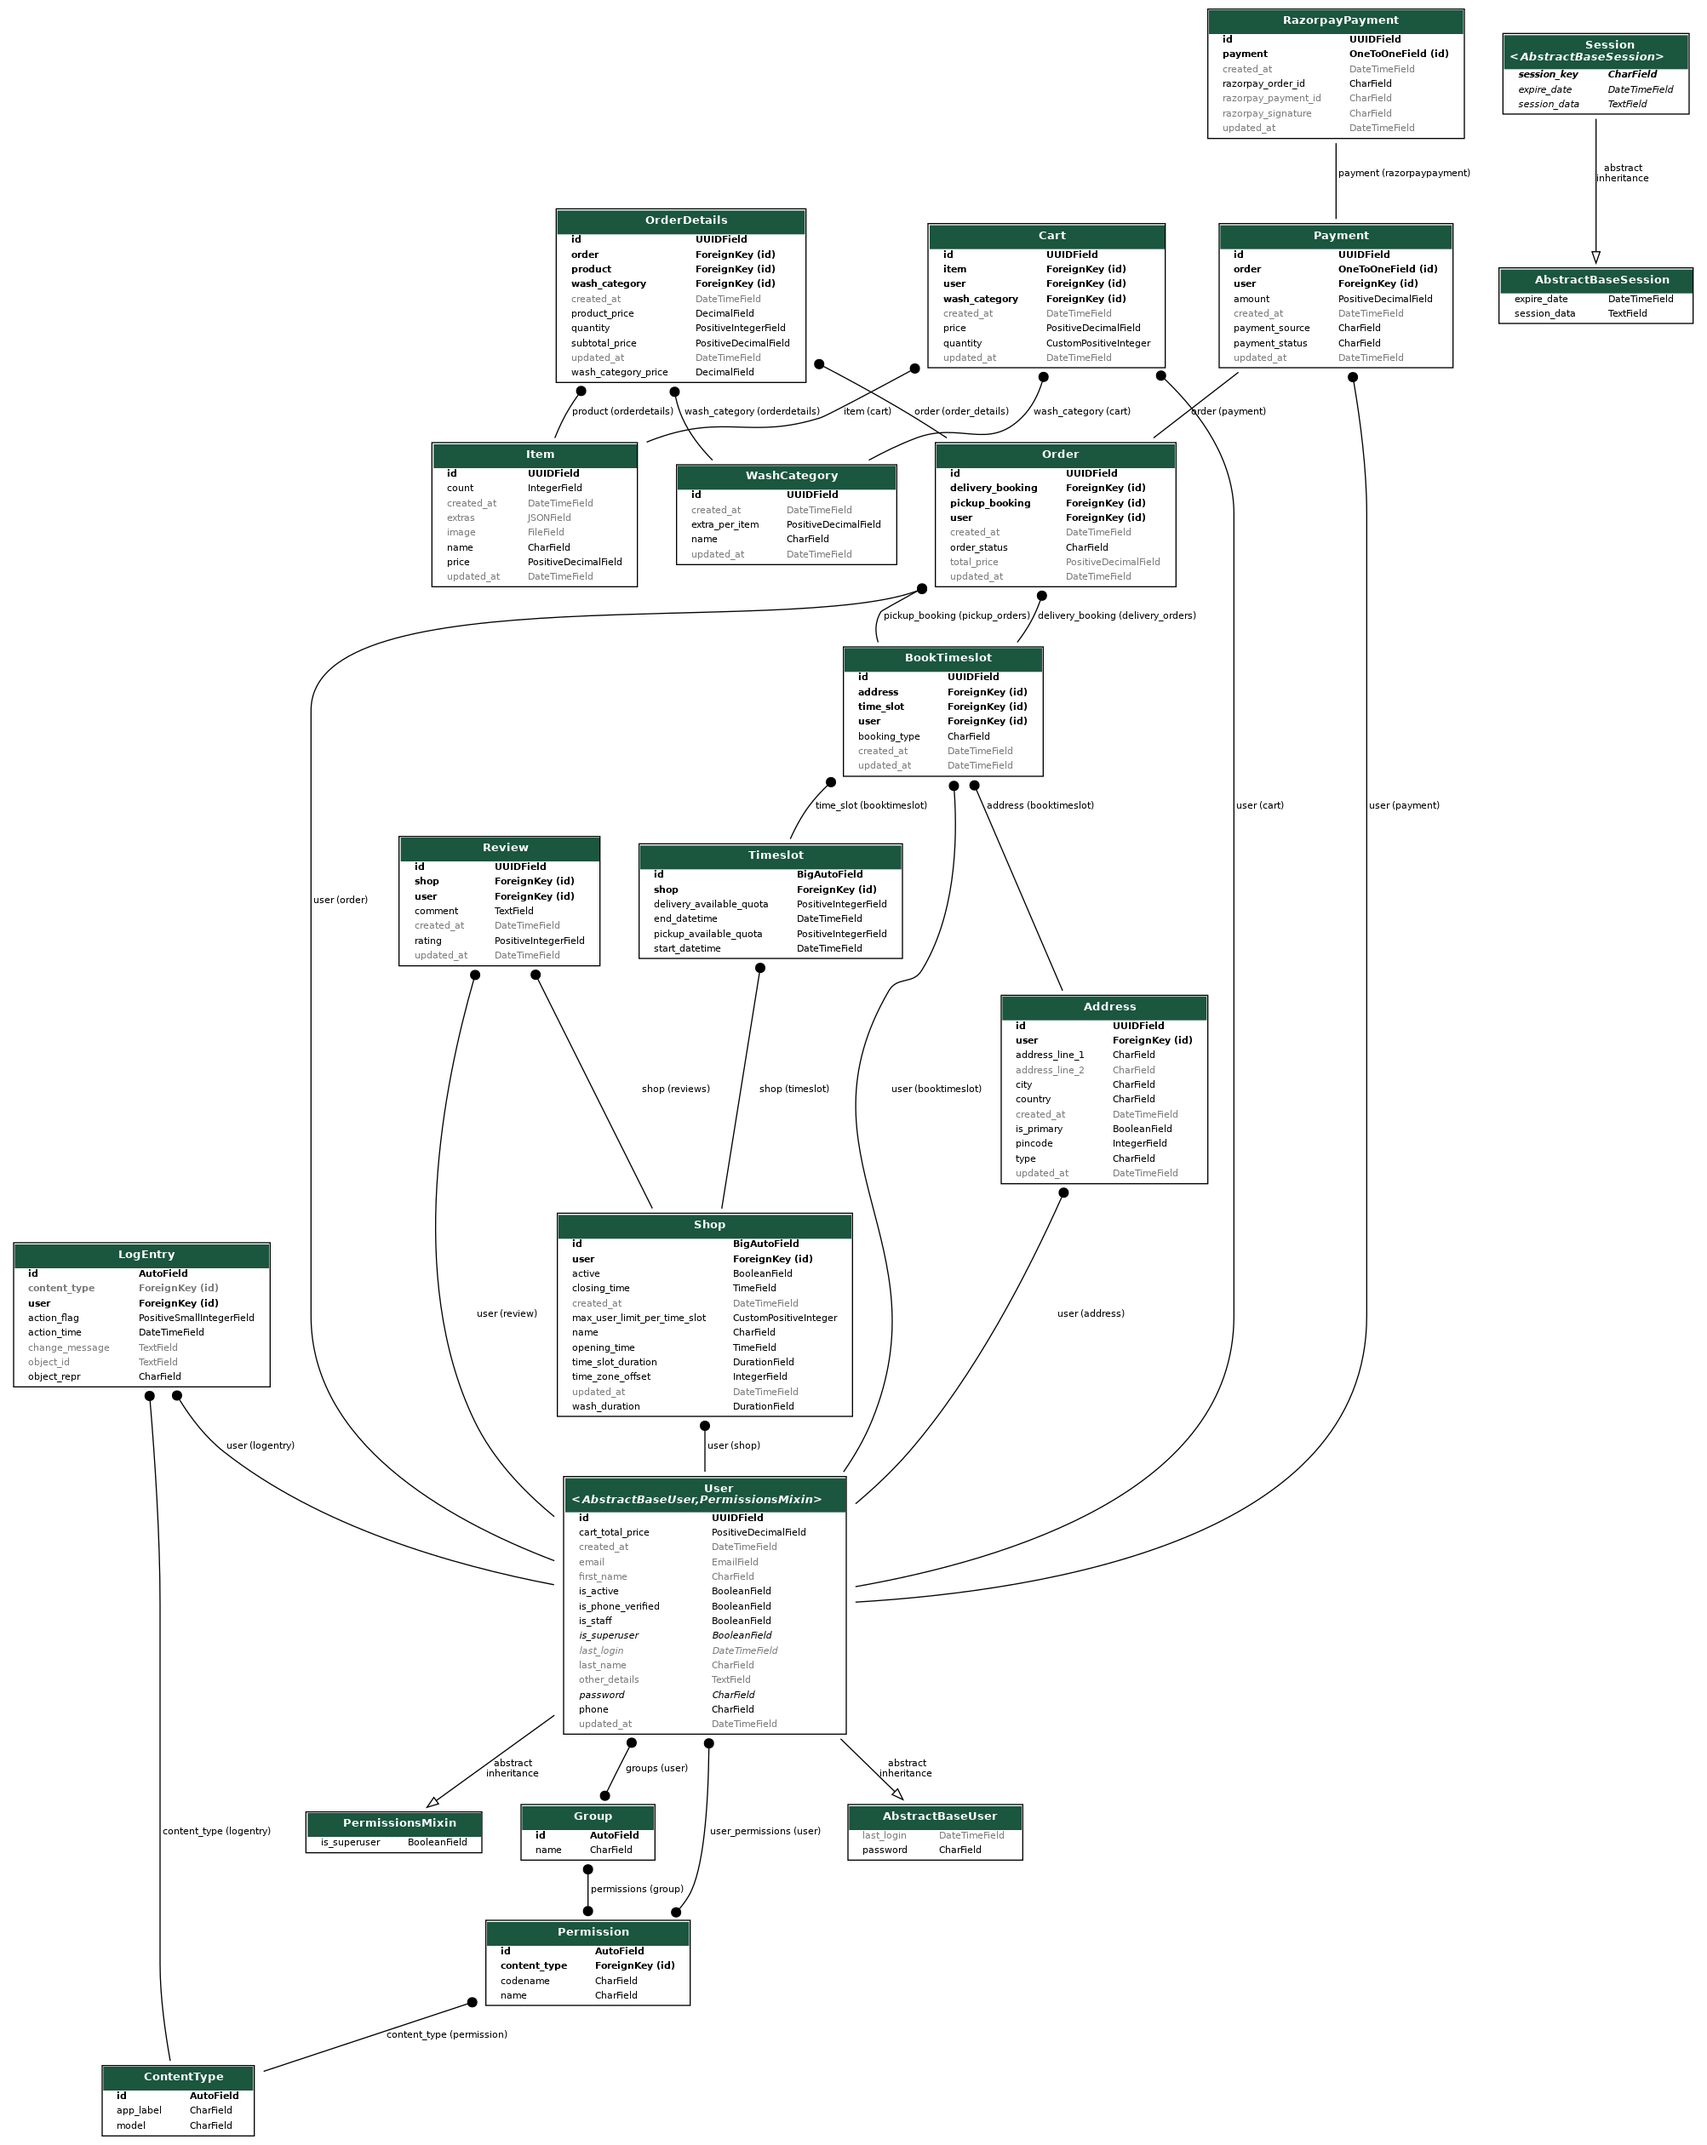
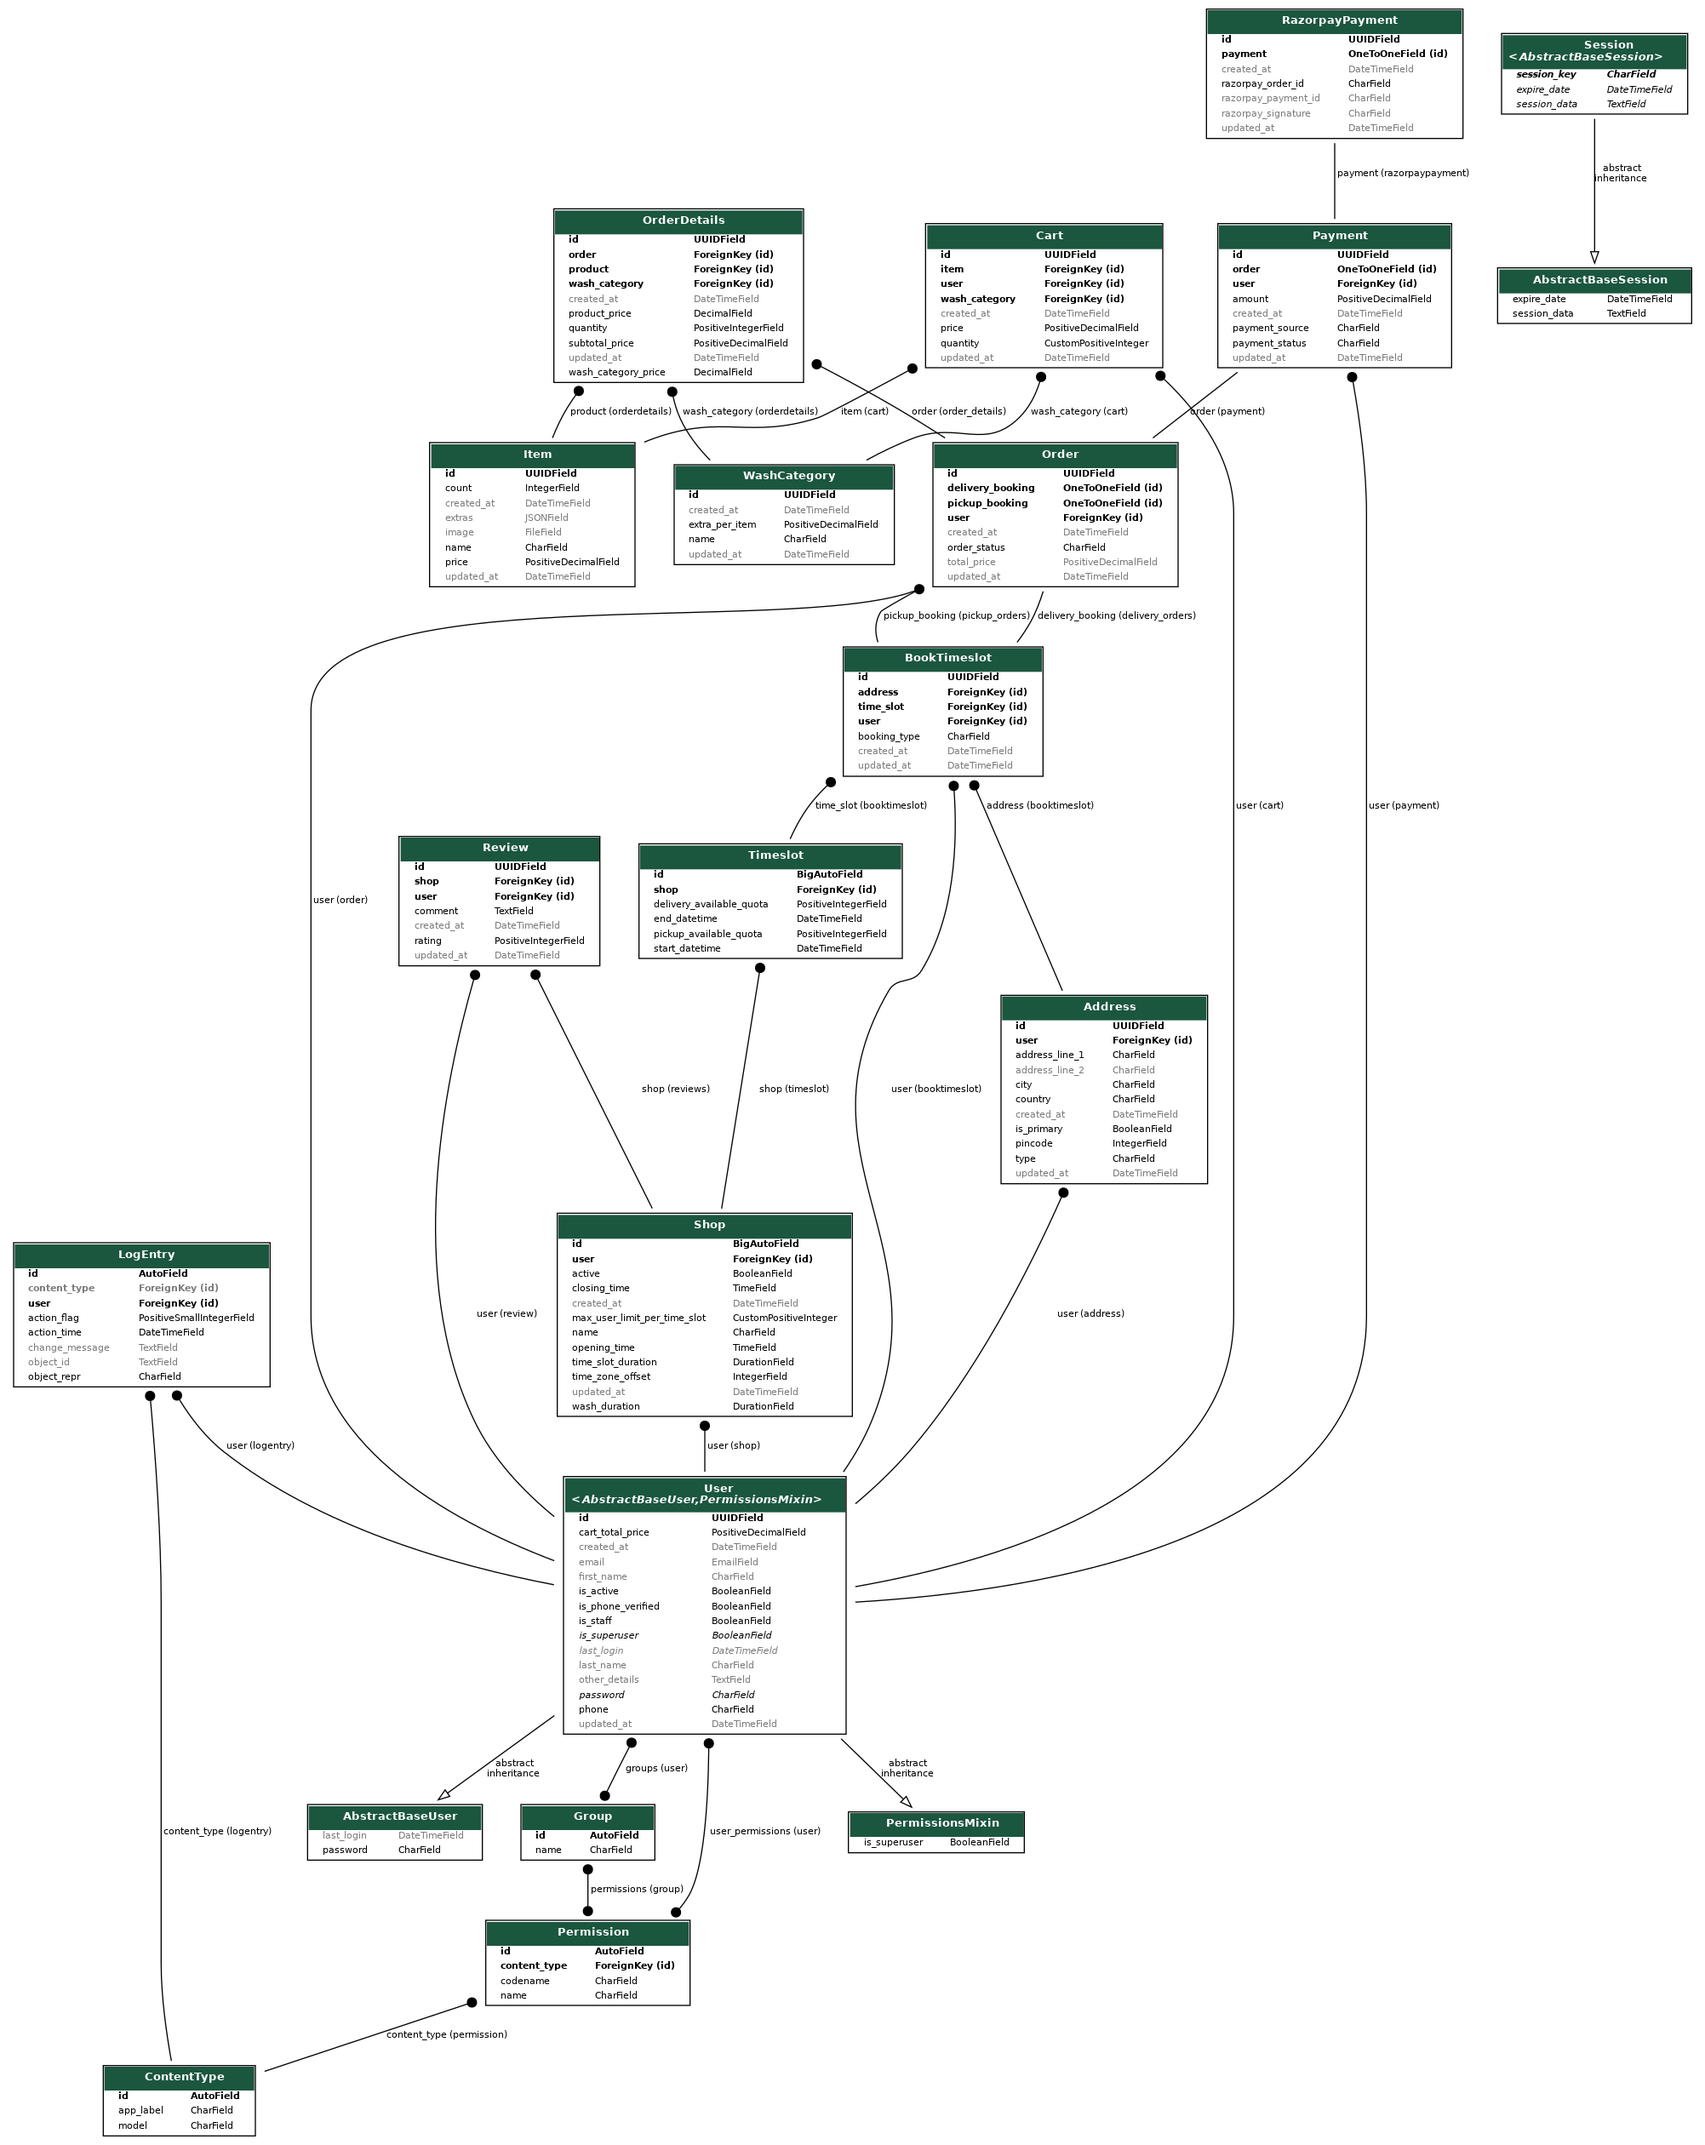
fix: restricted to create multiple order for same bookings

diff --git a/core/models.py b/core/models.py
@@ -166,8 +166,8 @@ class BookTimeslot(models.Model):
 class Order(models.Model):
     id = models.UUIDField(primary_key=True, default=uuid.uuid4, editable=False)
     user = models.ForeignKey(settings.AUTH_USER_MODEL, on_delete=models.CASCADE)
-    pickup_booking = models.ForeignKey(BookTimeslot, on_delete=models.CASCADE, related_name='pickup_orders')
-    delivery_booking = models.ForeignKey(BookTimeslot, on_delete=models.CASCADE, related_name='delivery_orders')
+    pickup_booking = models.OneToOneField(BookTimeslot, on_delete=models.CASCADE, related_name='pickup_orders')
+    delivery_booking = models.OneToOneField(BookTimeslot, on_delete=models.CASCADE, related_name='delivery_orders')
     total_price = PositiveDecimalField(max_digits=10, decimal_places=2, blank=True, null=True)
     order_status = models.CharField(max_length=20,
                                     choices=[(tag.name, tag.value) for tag in OrderStatus])
